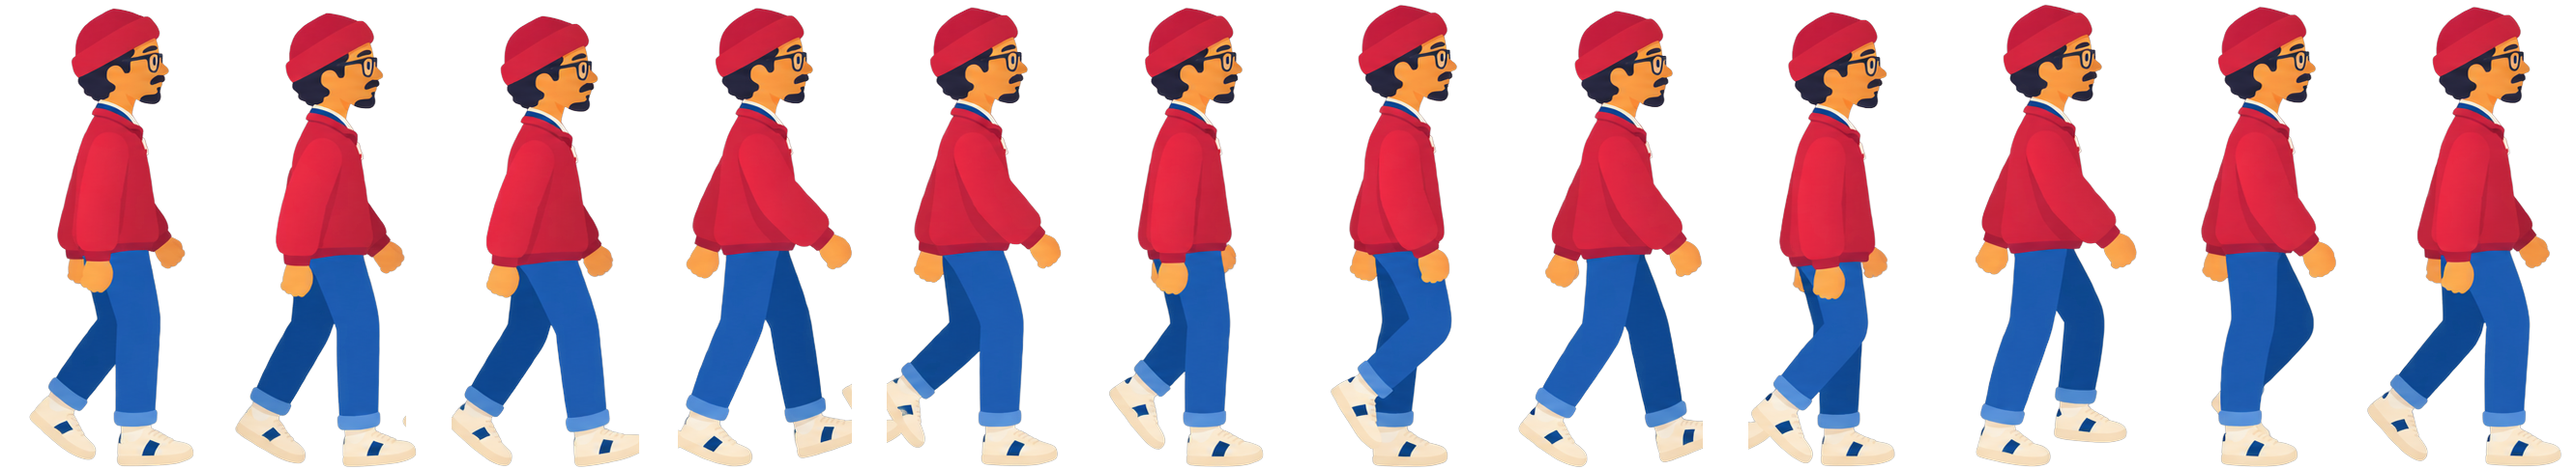
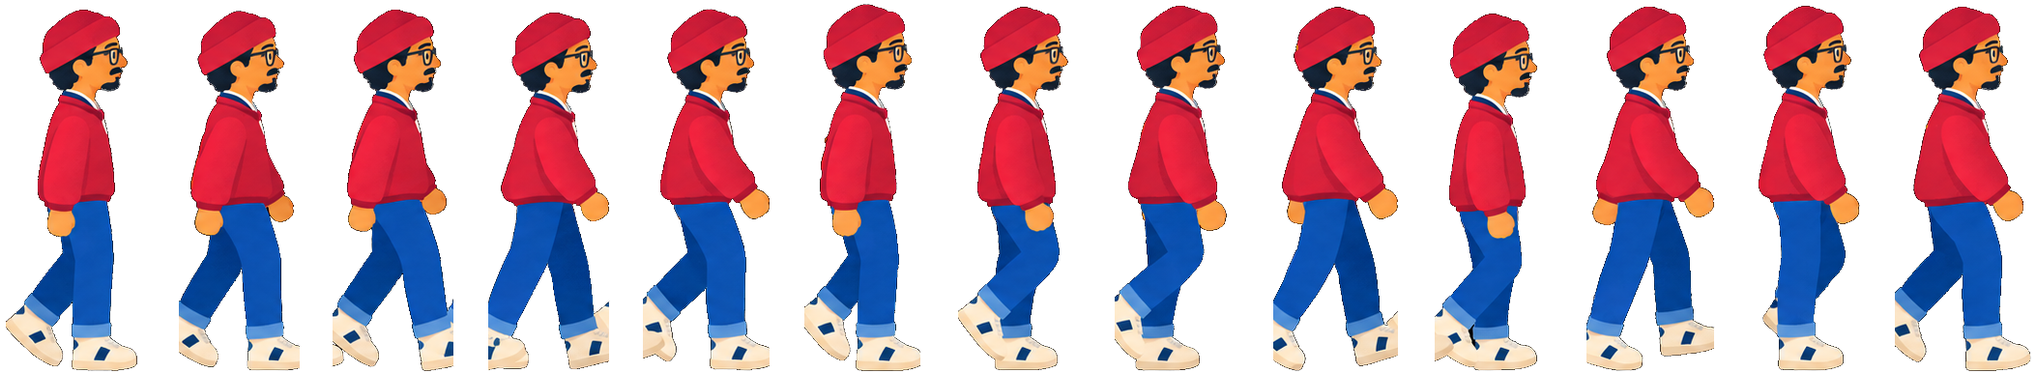
Use the new 13-frame walk cycle; add Character picker to Rig Lab panel
Claude-Session: https://claude.ai/code/session_015ihGvpgw6SJdfCAPaeHAJK

diff --git a/public/index.html b/public/index.html
@@ -25,7 +25,7 @@
   <div class="char-switch" id="charSwitch" role="group" aria-label="Character">
     <button type="button" data-char="doodle" data-tip="Doodle: hand-built parts, turns with you">Doodle</button>
     <button type="button" data-char="redcap" data-tip="Red beanie: the earlier picture-based character">Red beanie</button>
-    <button type="button" data-char="walk" data-tip="Walk: 12-frame side-view walk cycle (prototype)">Walk</button>
+    <button type="button" data-char="walk" data-tip="Walk: 13-frame side-view walk cycle (prototype)">Walk</button>
   </div>
 
   <!-- ============ Procreate top bar ============ -->
@@ -219,7 +219,7 @@
         <div class="group" id="charList">
           <label class="row">Doodle<small>hand-built parts, turns with you</small><input type="radio" name="charChoice" value="doodle" class="radio"></label>
           <label class="row">Red beanie<small>from your SVG turnaround</small><input type="radio" name="charChoice" value="redcap" class="radio"></label>
-          <label class="row">Walk cycle<small>12 side-view frames, prototype</small><input type="radio" name="charChoice" value="walk" class="radio"></label>
+          <label class="row">Walk cycle<small>13 side-view frames, prototype</small><input type="radio" name="charChoice" value="walk" class="radio"></label>
           <label class="row">Beanie (line art)<input type="radio" name="charChoice" value="beanie" class="radio"></label>
           <label class="row hidden" id="rowCustom"><span id="customName">My drawing</span><input type="radio" name="charChoice" value="custom" class="radio"></label>
           <label class="row">Basic figure<input type="radio" name="charChoice" value="basic" class="radio"></label>
@@ -407,6 +407,13 @@
     <button class="lab-x" id="labClose" title="Close">&times;</button>
   </header>
   <p class="lab-status" id="labStatus"></p>
+
+  <section class="lab-sec">
+    <h3>Character</h3>
+    <div class="row feel-row"><span>Choose</span>
+      <div class="feel-btns" id="labChar"><button data-char="doodle">Doodle</button><button data-char="redcap">Red beanie</button><button data-char="walk">Walk</button></div>
+    </div>
+  </section>
 
   <section class="lab-sec">
     <h3>View</h3>

diff --git a/public/js/main.js b/public/js/main.js
@@ -676,6 +676,7 @@ function selectCharacter(next, { remember = true } = {}) {
   }
   for (const r of document.querySelectorAll('input[name="charChoice"]')) r.checked = r.value === choice;
   for (const b of document.querySelectorAll('#charSwitch button')) b.classList.toggle('on', b.dataset.char === choice);
+  for (const b of document.querySelectorAll('#labChar button')) b.classList.toggle('active', b.dataset.char === choice);
   $('basicParts').classList.toggle('hidden', choice !== 'basic');
   const p = activePuppet();
   view.id = 'front';
@@ -686,7 +687,7 @@ function selectCharacter(next, { remember = true } = {}) {
   correctives.load(choice === 'custom' && p ? `custom:${p.name}` : choice);
 }
 for (const r of document.querySelectorAll('input[name="charChoice"]')) r.addEventListener('input', () => selectCharacter(r.value));
-for (const b of document.querySelectorAll('#charSwitch button')) b.addEventListener('click', () => selectCharacter(b.dataset.char));
+for (const b of document.querySelectorAll('#charSwitch button, #labChar button')) b.addEventListener('click', () => selectCharacter(b.dataset.char));
 
 function showCustom(p) {
   characters.custom = p;
@@ -882,7 +883,7 @@ function registerViews(p, def) {
 // ---------- drawing the character ----------
 const thumbRenderer = createRenderer();
 const basicCanvas = document.createElement('canvas');
-const WALK_FRAMES = 12, WALK_W = 222, WALK_H = 486, WALK_FPS = 12;
+const WALK_FRAMES = 13, WALK_W = 162, WALK_H = 386, WALK_FPS = 13;
 const walkSheet = new Image();
 walkSheet.src = 'characters/walk-sheet.png';
 
@@ -896,7 +897,7 @@ function drawCharacter(target, W, H, r, { mul = 1, alpha = 1, fitH = H, shift = 
     return P;
   }
   if (choice === 'walk') {
-    // Prototype: the 12-frame side-view walk cycle, drawn inside the character's box.
+    // Prototype: the 13-frame side-view walk cycle, drawn inside the character's box.
     const P = rig.solve(W, fitH, scale * 1.2, shift);
     if (walkSheet.complete && walkSheet.naturalWidth) {
       const b = charBox(P);
